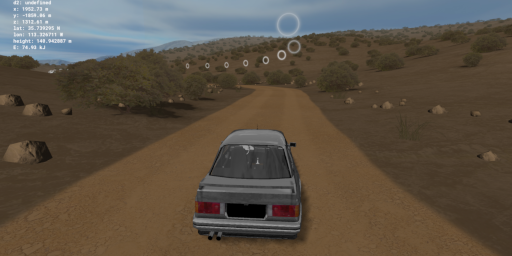
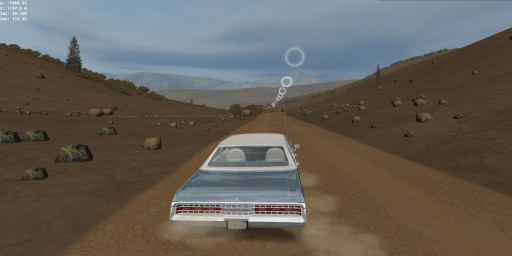
Update desert1 screenshot

diff --git a/README.md b/README.md
@@ -17,7 +17,7 @@ A rally game based on OpenStreetMap data.
 ![Screenshot-R0-2022-10-12](media/Screenshot-F0-2022-10-12.png)
 
 ### Desert 1
-![Screenshot-DS1-2022-10-09c](media/Screenshot-DS1-2022-10-09c.png)
+![Screenshot-DS1-2023-02-21](media/Screenshot-DS1-2023-02-21.png)
 
 ### Racetrack 0
 ![Screenshot-R0-2022-04-23](media/Screenshot-R0-2022-10-02.png)
